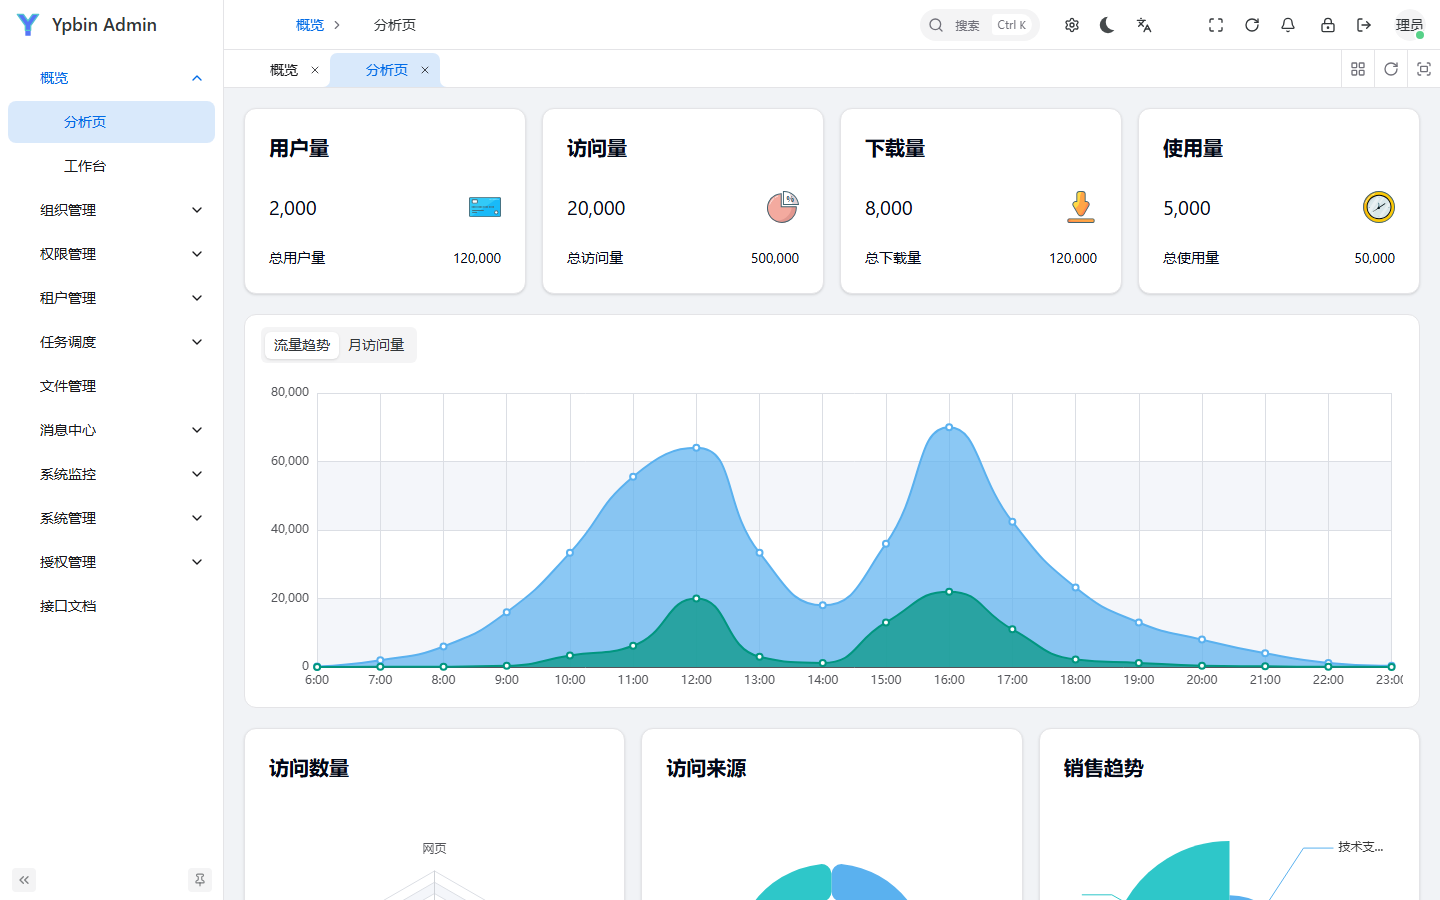
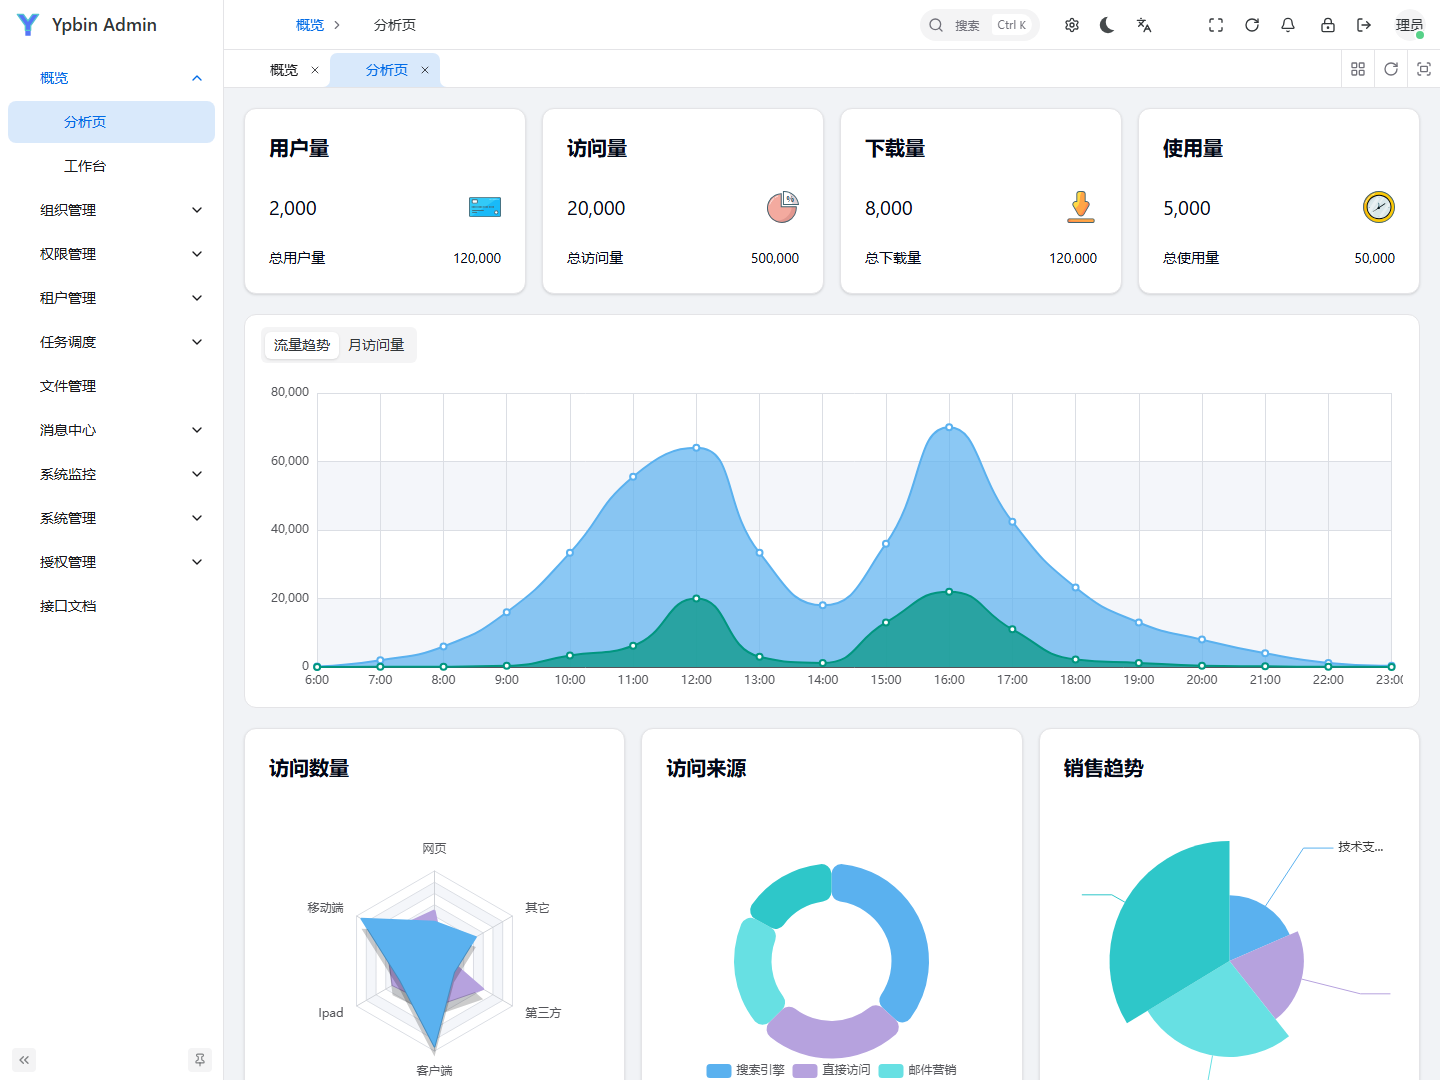
docs: 截图调整为 1440×1080,登录页等入场动画完成后再采集
- 截图分辨率从 1440×900 改为标准 1440×1080
- 登录页恢复左右布局(介绍区 + 表单),采集时等待 enter-x 动画完成,避免截到半透明加载态
- 登录卡片文案 Y-Frame 改为 ypbin

diff --git a/docs/.vitepress/theme/components/ProductShowcase.vue b/docs/.vitepress/theme/components/ProductShowcase.vue
@@ -10,7 +10,7 @@ const screenshots = [
   { id: 'menus', label: '动态菜单', description: '后端菜单、权限标识与页面组件。' },
   { id: 'jobs', label: '任务调度', description: 'Spring Cron、执行器和并发控制。' },
   { id: 'licenses', label: '商业授权', description: '授权签发、审批、交付与运行状态。' },
-  { id: 'login', label: '登录入口', description: '本地 Y-Frame 品牌与真实认证表单。' }
+  { id: 'login', label: '登录入口', description: 'ypbin 品牌登录页与真实认证表单。' }
 ]
 
 const active = ref<{ id: string; label: string } | null>(null)
@@ -41,7 +41,7 @@ onUnmounted(() => window.removeEventListener('keydown', onKeydown))
             :src="isDark ? `/screenshots/admin-ui/${item.id}-dark.webp` : `/screenshots/admin-ui/${item.id}.webp`"
             :alt="`ypbin-admin ${item.label}真实运行截图`"
             width="1440"
-            height="900"
+            height="1080"
             loading="lazy"
           />
         </button>
